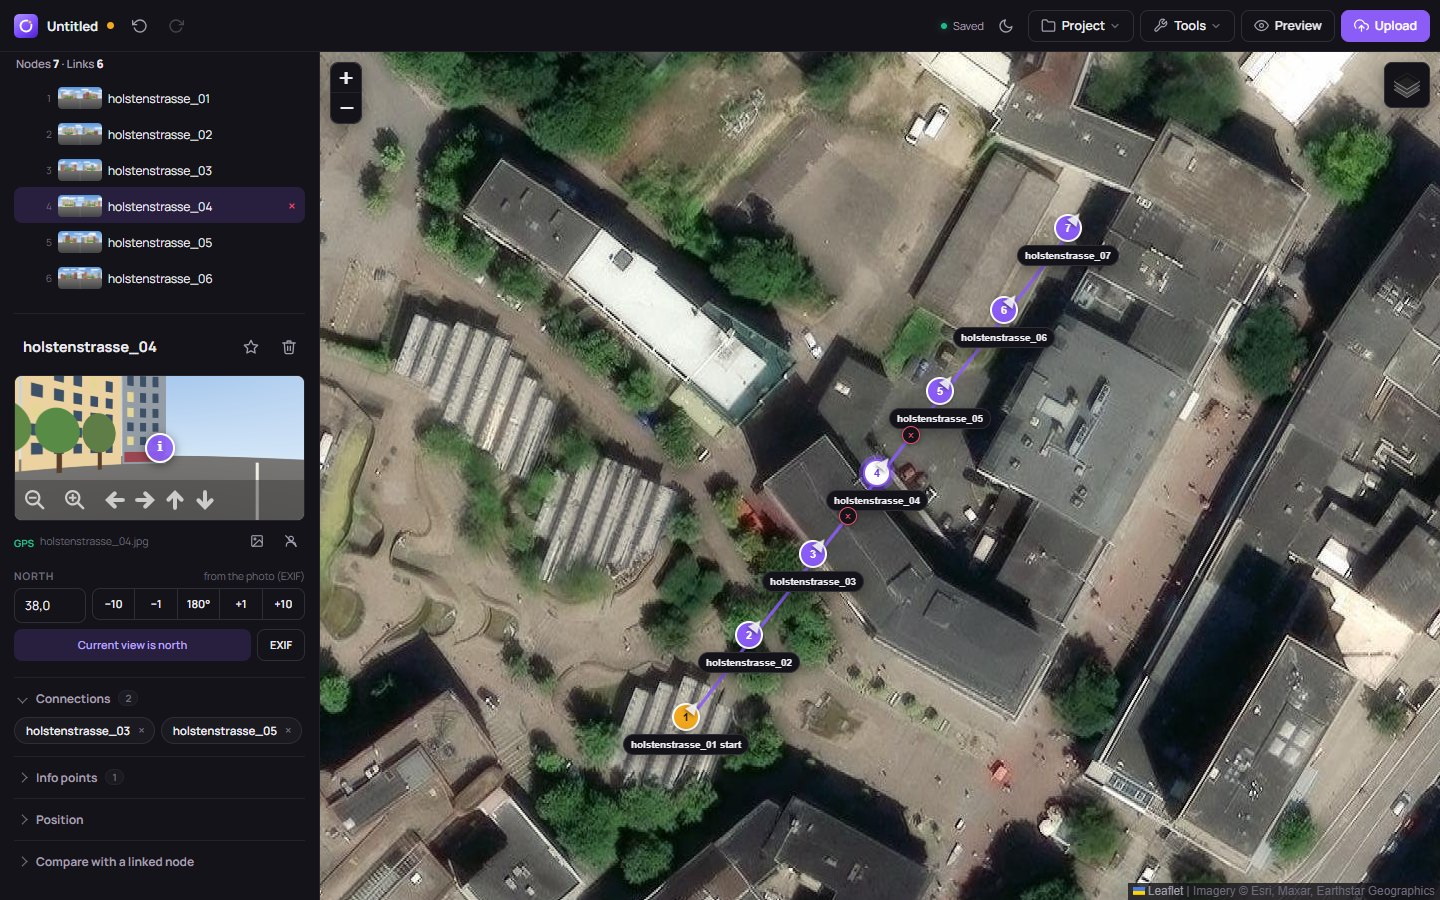
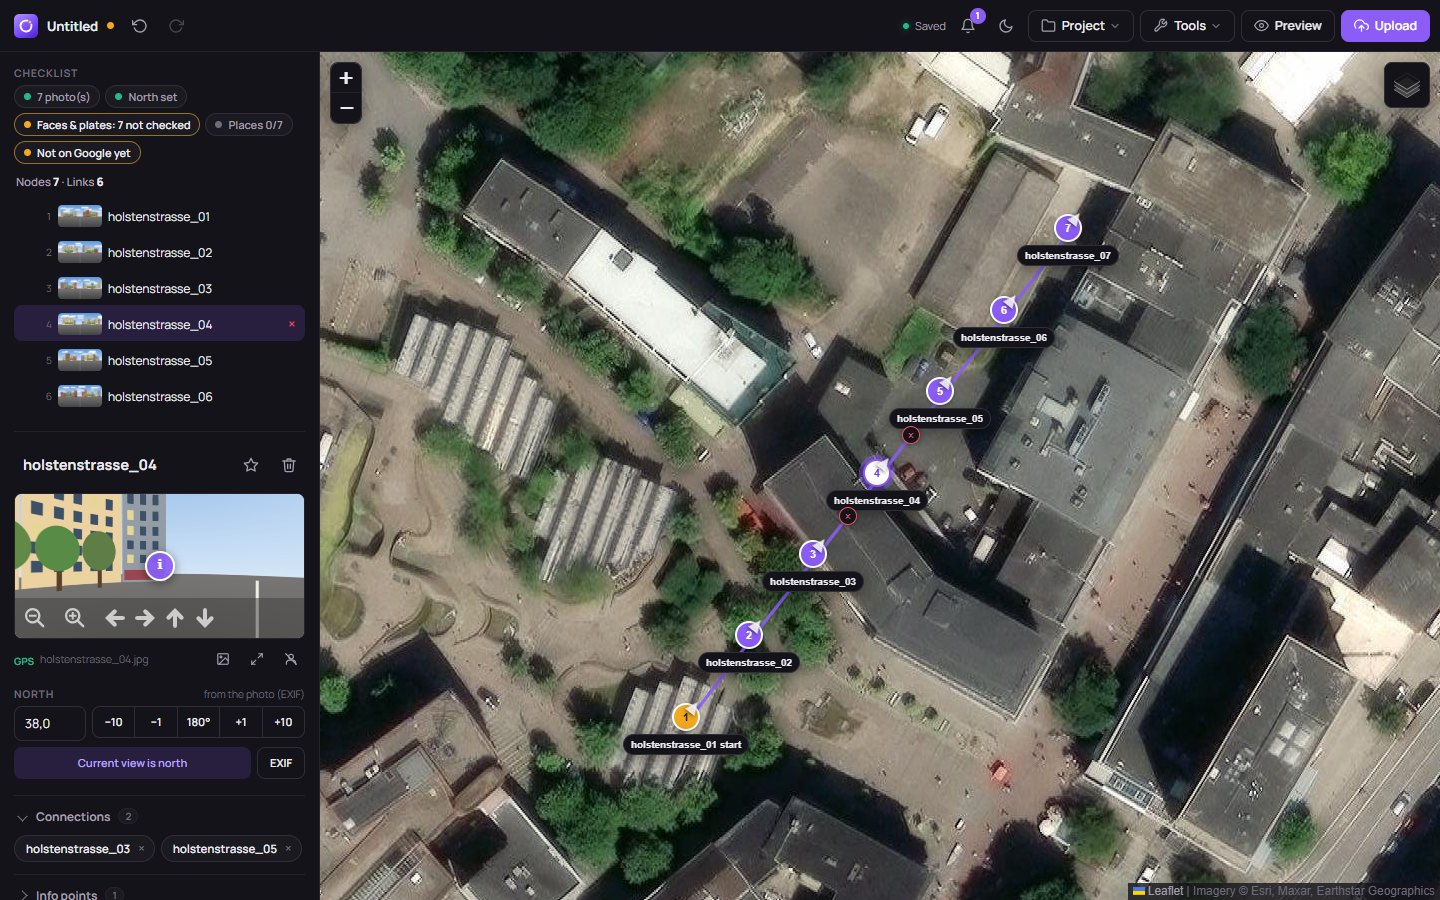
Document the new features and update the screenshots

diff --git a/README.md b/README.md
@@ -43,15 +43,17 @@ them to Google.
 | | |
 |---|---|
 | 📥 **A whole walk in one go** | Drop a folder (or many photos) and the **import** places them by GPS, links them in the order you walked, turns them to north from the walking direction and checks the tour. One Ctrl+Z takes it all back. |
-| 🗺 **Plan on a map** | Edit on a street or satellite map: link photos by right-clicking, or let **auto-connect** chain them in the order you walked. |
-| 🧭 **Get north right** | Align a photo by looking north and clicking once, fine-tune by ±1°/±10°/180°, or set every photo from the **walking direction**. The preview shows the result exactly as visitors will see it. |
-| 📍 **No GPS? No problem** | Place photos from a **GPX track** recorded on your phone, or type exact coordinates. |
-| 🙈 **Privacy built in** | **Blur faces and licence plates** before uploading, with automatic face detection as a starting point. The Street View Publish API does not blur anything itself. |
-| ✅ **Catch problems early** | A **tour check** finds what Google would reject (not 2:1, not a JPEG, over 75 MB) and what looks wrong (no north, unconnected photos, long links, duplicates). |
-| ☁ **One-click publishing** | Upload with a live progress view, readable errors and automatic linking once Google has processed the photos. Later changes are **pushed without re-uploading**; the Google status shows on every marker. |
+| 🗺 **Plan on a map** | Edit on a street or satellite map: link photos by right-clicking, or let **auto-connect** chain them in the order you walked. **Several tours** on one map – add projects next to each other, export each tour on its own. |
+| 📍 **Places on Google Maps** | Optional, recommended: every photo tied to its building, house number or street, by a rule you can see and change before anything is uploaded. |
+| 🧭 **Get north right** | Align one photo by looking north and clicking once, and let the others follow – from the **walking direction**, or by **comparing the photos with each other**, whichever way you held the camera. Fine-tune by ±1°/±10°/180°; the preview shows the result exactly as visitors will see it. |
+| 📍 **No GPS? No problem** | Place photos from a **GPX track** recorded on your phone, or type exact coordinates. GPS a few metres off? **Move or turn the whole tour**, or **snap it to the paths** on OpenStreetMap. |
+| 🙈 **Privacy built in** | **Blur faces and licence plates** before uploading: the editor checks **all photos at once** for faces and vehicles – on your computer – and you go through the findings one by one. The Street View Publish API does not blur anything itself. |
+| ✅ **Catch problems early** | A **checklist** shows what is left for each tour, a **tour check** finds what Google would reject (not 2:1, not a JPEG, over 75 MB) and what looks wrong, and a **review before publishing** says exactly what goes public. |
+| ☁ **One-click publishing** | Upload with a live progress view, readable errors and automatic linking once Google has processed the photos. Later changes are **pushed without re-uploading**; the Google status and **view counts** show on every point. **Floors** for tours inside buildings. |
+| 🎥 **360° videos** | Upload a 360° video with its GPS track and Google makes the Street View photos from it. The editor checks the video and the track first and shows how far Google got. |
 | 🌐 **Share it anywhere** | Export a **ready-to-host website** of the tour (with info points and a minimap), or `tour-viewer.html` / `tour-config.json` / `tour.csv`. |
 | 💾 **Never lose work** | Autosave, a restore prompt after a crash, and `.vrtour` project files with all photos inside. **Ctrl+S** saves back into the open project; **recent projects** are one click away. |
-| 🖥 **A real desktop app** | For **Windows, macOS and Linux** (also ARM). Its own window, no browser needed, **works offline** (only the map and Google need the internet); a calm **light and dark design**, a short **introduction on first start**, the system's own open and save dialogs, `.vrtour` file association, installers, and in-app updates on Windows. English and German user interface. |
+| 🖥 **A real desktop app** | For **Windows, macOS and Linux** (also ARM). Its own window, no browser needed, **works offline** (only the map and Google need the internet); a calm **light and dark design**, a short **introduction on first start** and a **sample tour** to try things, a **panorama focus mode**, the system's own open and save dialogs, `.vrtour` file association, installers, in-app updates on Windows and update hints on macOS and Linux (or updates through **apt**). English and German user interface. |
 
 <table>
   <tr>
@@ -78,9 +80,19 @@ Get the file for your system from the
 | macOS 11+ on Intel | `StreetviewTourEditor-<version>-macos-x64.dmg` | |
 | **Linux**: Debian 12+, Ubuntu 24.04+ and derivatives (amd64 and arm64) | `streetview-tour-editor_<version>_all.deb` | `sudo apt install ./streetview-tour-editor_*_all.deb` |
 
+On Linux you can also add the editor's apt repository, so updates come with the
+system's own:
+
+```bash
+curl -fsSL https://f0up.github.io/streetview-tour-uploader/apt/key.gpg | sudo tee /usr/share/keyrings/streetview-tour-editor.gpg > /dev/null
+echo "deb [signed-by=/usr/share/keyrings/streetview-tour-editor.gpg] https://f0up.github.io/streetview-tour-uploader/apt stable main" | sudo tee /etc/apt/sources.list.d/streetview-tour-editor.list
+sudo apt update && sudo apt install streetview-tour-editor
+```
+
 Then start **Streetview Tour Editor** (Start menu, Launchpad or your app menu)
 and drop your 360° photos, or the whole folder, onto the map. The editor opens in its own window;
-closing the window quits the app.
+closing the window quits the app. Not sure yet? **Try the sample tour** on the
+start screen: a small tour with drawn photos, to try everything (it is never uploaded).
 
 The window is the system's own web engine: Edge WebView2 on Windows (part of
 Windows 10 and 11), WKWebView on macOS, WebKitGTK on Linux (installed with the
@@ -154,10 +166,16 @@ flowchart LR
   B --> C[🧭 Align north]
   C --> D[🙈 Blur]
   D --> E[✅ Check & preview]
-  E --> F[☁ Upload]
+  E --> F[☁ Review & upload]
   F --> G[⏳ Google processes]
   G --> H[🔗 Links set automatically]
 ```
+
+The **checklist** at the top of the side panel follows you through these steps:
+for the tour of the selected point it shows what is done (green) and what is left
+(yellow) – photos, north, faces & plates, places, Google. Click a chip to go where
+it gets done. Messages that pop up at the bottom are kept under the **bell** in the
+top bar, in case one vanished too fast.
 
 ### 1. Bring in your photos
 
@@ -178,6 +196,14 @@ flowchart LR
   can also set the camera clock's time zone if the photos don't land on the track).
 - **Double-click** the map for an empty point; **Replace Photo** in the side
   panel swaps a node's photo.
+- **GPS a few metres off?** **Tools → Move or turn a tour…** shifts the whole tour
+  in 1 or 5 m steps or turns it about its centre, watching the satellite map; it
+  all counts as one undo step. **Snap to paths** moves each point onto the nearest
+  street or footpath from OpenStreetMap (the tour's area is sent to the Overpass
+  API for this).
+- **Inside a building with several floors?** Give the points their **floor** in
+  the side panel (*Position*). Google shows the floor switcher for them, and the
+  map's floor buttons show one floor at a time.
 
 ### 2. Link the photos
 
@@ -199,6 +225,10 @@ way and you look backwards after a jump.
   facing backwards.
 - **Tools → Headings from walking direction…** sets all photos at once: align one
   by hand, pick it as reference, and the others follow your route.
+- **Tools → North from the photos…** works however you held the camera: it
+  compares each photo's horizon with its linked neighbours and turns them to match
+  the photo you aligned. Every result says how sure it is; only clear ones are
+  ticked, and nothing changes until you apply them.
 
 > [!TIP]
 > In the **Preview**, walk through the tour. If a photo looks turned after a jump,
@@ -206,10 +236,15 @@ way and you look backwards after a jump.
 
 ### 4. Protect privacy
 
-Select a node and click **Blur faces & plates…**:
+**Tools → Check all photos for faces & plates…** looks through every photo – on
+your computer, nothing is sent anywhere – and lists those with faces or vehicles.
+**Review** opens each in the blur tool with the suggestions marked; after applying
+you are back at the list. Or select a node and click **Blur faces & plates…**:
 
-- **Detect faces** suggests boxes (dashed); click a box to remove it.
-- Drag boxes over anything else, such as licence plates or house numbers.
+- **Detect faces** and **Detect plates** suggest boxes (dashed); click a box to
+  remove it. For plates the editor finds vehicles and suggests the lower middle of
+  each, where plates usually are – remove the boxes without one.
+- Drag boxes over anything else, such as house numbers.
 - **Apply to photo** pixelates them for good. The original EXIF block, which can
   hold an unblurred thumbnail, is dropped; the 360° metadata is kept.
 
@@ -222,12 +257,18 @@ unblurred version on Google.
   a **Show** button.
 - **Preview** shows the tour exactly as it will look, including info points and the
   minimap.
+- Press <kbd>F</kbd> (or the expand button under the panorama) to see the selected
+  photo over the **whole window**, and walk on to the linked points from there.
+  <kbd>Esc</kbd> goes back.
 - **Info points:** in the side panel, **Info points → Add at current view** puts a
   clickable "i" with a title, text and link into the panorama.
 
 ### 6. Upload to Google Street View
 
-Click **Upload**, then **Start Upload**:
+Click **Upload**, then **Start Upload**. First comes the **review before
+publishing**: how many photos go up or are updated, and per tour whether north,
+links, places and the privacy check are complete – each open point with a way to
+fix it first. **Publish** starts the upload:
 
 1. **Upload:** each photo is sent with its position and heading, with live progress, speed and time left.
 2. **Google processing:** new photos take a few minutes before Google accepts links. The dialog waits.
@@ -244,14 +285,69 @@ Good to know:
   shows whether each photo is *published*, *processing* or *rejected*, finds photos
   the editor lost track of and duplicates at the same spot. **Repair** sends
   whatever is missing, again without re-uploading.
-- A **Place ID** (optional) links the tour to a place's page on Google Maps. Find it
-  with Google's free [Place ID Finder](https://developers.google.com/maps/documentation/javascript/examples/places-placeid-finder);
-  pasting a Maps URL that contains one works too. If Google rejects the ID, the
-  photos are uploaded without it and you are told.
+- **Tools → Views on Google…** shows how often each photo has been viewed on
+  Google Maps, per tour.
+- **Places on Google Maps** (optional, recommended): see below. Without it you can
+  still type a **Place ID** by hand; Google's free
+  [Place ID Finder](https://developers.google.com/maps/documentation/javascript/examples/places-placeid-finder)
+  finds it, and pasting a Maps URL that contains one works too. If Google rejects
+  a place, the photos are uploaded without it and you are told.
+
+#### Places on Google Maps (optional, recommended)
+
+With an API key of your own (**Tools → Places on Google Maps…**, which walks you
+through it), every photo is tied to its place on Google Maps: the **building or
+business** it was taken at, its **house number** or its **street**. Nothing
+happens unseen: when you open the upload, each tour shows the rule that applied
+and why, and **Show the place of each photo** lists every photo with its place,
+kind and distance. Every choice can be changed per tour (automatic, each photo its
+house number or street, one place for the whole tour, no place) or per photo,
+also for photos already on Google (sent without uploading again). The side panel
+shows each point's place, the upload list each photo's.
+
+The automatic rule, in order:
+
+1. A tour that lies at one place (all points within 60 m of its centre) with a
+   building or business within 40 m of that centre: all photos get that place.
+2. Otherwise each photo gets its house number if that is within 25 m, else its street.
+3. Nothing found: the photo goes up with its position only.
+
+It decides for photos not on Google yet; photos already there keep their place
+unless you change it.
+
+Costs: the key needs the **Places API (New)** and the **Geocoding API**, and Google
+requires a billing account for them. Each has a free monthly usage (2026: 10,000
+address lookups and 5,000 place searches; above that about $5 and $32 per 1,000 –
+see [Google's prices](https://developers.google.com/maps/billing-and-pricing/pricing)).
+The editor looks up each photo once (again only after you move it) and searches
+for buildings only for tours that lie at one place; the upload dialog shows how
+many lookups it sent. Set a **daily limit** on each API's quota page (the guide
+suggests 300 and 150 a day) and Google stops at the free usage instead of
+charging. The key stays on your computer; only the positions of the photos you
+upload are sent to these APIs.
 
 > [!WARNING]
 > Uploaded photos are **public**, under your Google account. It can take from a
 > few minutes to several hours until they show on Google Maps.
+
+#### 360° videos
+
+**Tools → Upload a 360° video…** sends a 360° video to Google, which picks the
+frames, places them along the GPS track and links them – the photos then appear
+under your account like uploaded ones. The video does not become part of your tour.
+Before anything is sent, the editor reads the video and shows what Google needs:
+
+- a 360° video, 2:1 (equirectangular, as the camera's app exports it), with its 360°
+  metadata, recorded while walking or driving outdoors;
+- GPS for the whole video: in the video's motion track (CAMM, e.g. Insta360 with a
+  GPS remote) or as a **GPX file** recorded at the same time. The editor shows how
+  much of the video the track covers, fills gaps of up to 30 s along the track
+  (Google refuses gaps over 5 s) and notices when the camera wrote its local time
+  as UTC – **Shift by … h** fixes that.
+
+The video goes from your computer through the app straight to Google, also when it
+is several GB. Processing takes hours to days; **Your videos on Google** shows how
+far each got, or why Google refused it.
 
 ### 7. Save, share and export
 
@@ -262,6 +358,16 @@ Good to know:
 | **Project → Viewer files** | `tour-viewer.html` + `tour-config.json`, to place next to your photos. Also in the preview. |
 | **Project → CSV** | `tour.csv` for the [command-line uploader](#command-line-tools). |
 | **Project → Export folder** | Save every export straight into one folder instead of asking each time. |
+
+**Several tours on one map:** **Project → Add project…** (<kbd>Ctrl</kbd>+<kbd>Shift</kbd>+<kbd>O</kbd>,
+several files at once; or drop `.vrtour` files on a map that has points) puts
+projects next to each other instead of replacing what is there. A tour is a group
+of linked points, or the points of one project or imported folder; with more
+than one, each gets its own colour, its own start point and a row in the side
+panel (click to show it, double-click to rename it). Every export then asks
+which tour – or everything – it is for, and **Project → Tour as project** saves a
+single tour as a `.vrtour` of its own. After adding projects, <kbd>Ctrl</kbd>+<kbd>S</kbd>
+asks for a new file, so the files you opened stay as they were.
 
 **Recent projects** are listed in the **Project** menu and on the start screen
 (in the browser only in Chrome and Edge, which ask once for access again).
@@ -278,11 +384,13 @@ the last session.
 | Introduction again | **Tools → Introduction** |
 | Save / Save as / Open project | <kbd>Ctrl</kbd>+<kbd>S</kbd> / <kbd>Ctrl</kbd>+<kbd>Shift</kbd>+<kbd>S</kbd> / <kbd>Ctrl</kbd>+<kbd>O</kbd> |
 | Import photos | <kbd>Ctrl</kbd>+<kbd>I</kbd> |
+| Add project to the map | <kbd>Ctrl</kbd>+<kbd>Shift</kbd>+<kbd>O</kbd> |
 | Undo / Redo | <kbd>Ctrl</kbd>+<kbd>Z</kbd> / <kbd>Ctrl</kbd>+<kbd>Y</kbd> |
 | Add point | Double-click the map |
 | Connect two nodes | Right-click, right-click |
 | Select several | <kbd>Ctrl</kbd>+click, or <kbd>Shift</kbd>+drag on the map |
 | Delete selection | <kbd>Delete</kbd> |
+| Panorama over the whole window | <kbd>F</kbd> |
 | Cancel / deselect | <kbd>Esc</kbd> |
 | All shortcuts | <kbd>?</kbd> |
 
@@ -390,16 +498,35 @@ The window needs WebKitGTK and a desktop session. The package pulls in
 </details>
 
 <details>
+<summary><b>Something doesn't work - how do I report it?</b></summary>
+
+**Tools → Create a bug report…** saves a zip with the versions of the app and
+your system, the app's log and the editor's last messages and errors. It holds no
+photos, projects, sign-in or keys; anything in the log that looks like a key or
+token is blanked. Have a look inside, then attach it to a
+[new issue](https://github.com/F0uP/streetview-tour-uploader/issues/new).
+</details>
+
+<details>
+<summary><b>How do I update on macOS or Linux?</b></summary>
+
+The editor tells you when there is a new version. **Download** shows what to do on
+your system: the disk image for your Mac, the `.deb` with the command to install
+it – or, with the [apt repository](#quick-start), nothing beyond your system's
+updates (`sudo apt update && sudo apt upgrade`).
+</details>
+
+<details>
 <summary><b>Where are my files?</b></summary>
 
 | What | Windows | macOS | Linux |
 |---|---|---|---|
-| Google sign-in, settings, recent projects, `editor.log` | `%APPDATA%\StreetviewTourEditor\` | `~/Library/Application Support/StreetviewTourEditor/` | `~/.config/streetview-tour-editor/` |
+| Google sign-in, settings, recent projects, Places API key, `editor.log` | `%APPDATA%\StreetviewTourEditor\` | `~/Library/Application Support/StreetviewTourEditor/` | `~/.config/streetview-tour-editor/` |
 | Autosaved session | `%LOCALAPPDATA%\StreetviewTourEditor\WebView2\` | WebKit's storage for the app | `~/.local/share/streetview-tour-editor/` |
 | Projects | wherever you save your `.vrtour` files | | |
 
 Running from source keeps everything in `uploader/` (`client_secrets.json`,
-`token.json`, `.editor_key`, `recent.json`, `webview/`). In browser mode the autosave lives in
+`token.json`, `.editor_key`, `recent.json`, `places_api_key.txt`, `filerefs.json`, `webview/`). In browser mode the autosave lives in
 that browser's storage for `127.0.0.1:8420`.
 </details>
 
@@ -441,7 +568,13 @@ See [`example/`](example) for the CSV format and `tour-meta.json` (a Place ID fo
   browser mode the app quits about 15 seconds after the last editor tab is
   closed, and at the latest 5 minutes after no editor page has been heard from.
 - Photos and projects stay on your computer until you upload them; uploads go
-  directly to Google's Street View Publish API.
+  directly to Google's Street View Publish API. Face and vehicle detection runs on
+  your computer. **Snap to paths** sends the tour's area (not the photos) to the
+  OpenStreetMap Overpass API.
+- In the app window, the autosave keeps photos you opened from a file by
+  reference (path, size and time in `filerefs.json`) instead of a second copy; a
+  changed or moved file is reported, never silently replaced.
+- A bug report is only made when you ask for it, and only saved to your computer.
 - In-app updates download only from this repository's GitHub releases and are
   checked against the release's `SHA256SUMS.txt` before installing.
 - All code ships with the app: the libraries (map, panorama viewer, face
@@ -455,22 +588,47 @@ See [`example/`](example) for the CSV format and `tour-meta.json` (a Place ID fo
 <summary><b>Project layout</b></summary>
 
 ```text
-editor/editor.html        the whole editor (single page, no build step)
+editor/editor.html        the editor's page (markup); editor.css its styles
+editor/js/                the editor as native ES modules, no build step: editor.js (main),
+                          i18n-de.js (German), align.js (north from the photos), detect.js
+                          (faces, vehicles), video.js (360° videos), viewer.js, gpx.js, zip.js, util.js
+editor/sample/            the sample tour (made by packaging/make_sample.py)
 editor/vendor/            third-party libraries, fetched and checked by packaging/vendor.py
-run_editor.py             local server, Google API endpoints, desktop-app entry point
+run_editor.py             local server, its API endpoints, desktop-app entry point
+google_api.py             Street View Publish API: photos and 360° videos
+places.py                 Places API (New) and Geocoding API lookups
+bug_report.py             "Create a bug report", with secrets blanked
 app_window.py             the app window (WebView2 / WKWebView / WebKitGTK via pywebview)
 app_tray.py               tray icon (browser mode)
-app_update.py             in-app updates from GitHub Releases (Windows)
+app_update.py             in-app updates from GitHub Releases (Windows), update hints elsewhere
 uploader/                 command-line tools
 build_exe.py              builds the Windows app + installer, or the macOS app + .dmg
 installer/                Inno Setup script (Windows installer)
 packaging/icons/          the logo: icon.svg and make_icons.py, which renders every icon format
-packaging/linux/          build_deb.py: the Linux package
+packaging/linux/          build_deb.py: the Linux package; apt_repo.py: the apt repository
+packaging/signpath/       how to set up code signing with SignPath
 packaging/macos/          entitlements for signing the macOS app
 packaging/pyinstaller-hooks/  bundle only what the app needs
 packaging/winget/         winget manifest generator
-.github/workflows/        CI: build, smoke-test and release on every v* tag
+.github/workflows/        CI: tests on every push; build, smoke-test and release on every v* tag
+tests/                    pytest + Playwright tests of the editor and the app
 ```
+</details>
+
+<details>
+<summary><b>Tests</b></summary>
+
+The tests start the app on a free port with a profile of their own and drive the
+editor in headless Chromium; Google, OpenStreetMap and the Places APIs are faked.
+
+```bash
+pip install -r requirements-test.txt
+python -m playwright install chromium     # or: set SVT_BROWSER_CHANNEL=chrome
+pytest tests
+```
+
+CI runs them on every push and before every release build (`.github/workflows/tests.yml`).
+The tests also check that every text of the editor has its German translation.
 </details>
 
 <details>
@@ -501,6 +659,9 @@ The editor's libraries are pinned in `packaging/vendor.py`. After changing a
 version there, `python packaging/vendor.py --update` downloads them again and
 rewrites the lock file; CI runs `--check` before every build.
 
+The sample tour is made by `python packaging/make_sample.py` (drawn panoramas, no
+real place or person in them).
+
 Start the app with `--debug` for the developer tools in its window, with
 `--browser` to use the browser instead, or with `--smoke-test` to check that it
 starts and works (exit code 0), as CI does with every build.
@@ -526,12 +687,20 @@ git tag v2.3.0 && git push origin v2.3.0
   `AZURE_TENANT_ID`, `AZURE_CLIENT_ID`, `AZURE_CLIENT_SECRET`,
   `TRUSTED_SIGNING_ENDPOINT`, `TRUSTED_SIGNING_ACCOUNT`, `TRUSTED_SIGNING_PROFILE`.
   Locally, set `SIGN_CMD` to any signing command with `{file}` as placeholder.
+  Or, free for open source, [SignPath](https://signpath.org): `SIGNPATH_API_TOKEN`
+  and the variables `SIGNPATH_ORGANIZATION_ID`, `SIGNPATH_PROJECT_SLUG`; see
+  [packaging/signpath/README.md](packaging/signpath/README.md).
 - **macOS signing and notarization** (removes the Gatekeeper warning):
   `MACOS_CERTIFICATE` (base64 of a *Developer ID Application* `.p12`),
   `MACOS_CERTIFICATE_PASSWORD`, and for notarization `APPLE_ID`, `APPLE_TEAM_ID`,
   `APPLE_APP_PASSWORD`. Locally, set `MACOS_SIGN_IDENTITY` (and the three Apple values).
 - **winget**: `WINGET_TOKEN`; the first submission is manual, see
   [packaging/winget/README.md](packaging/winget/README.md).
+- **apt repository** on GitHub Pages: `APT_GPG_PRIVATE_KEY`, an armored private key
+  without passphrase made only for this (`gpg --quick-gen-key "Streetview Tour Editor
+  apt" ed25519 sign never`, then `gpg --armor --export-secret-keys …`). Each release
+  adds its `.deb` to the `gh-pages` branch; switch on GitHub Pages for that branch
+  once (*Settings → Pages*).
 </details>
 
 Contributions are welcome: open an [issue](https://github.com/F0uP/streetview-tour-uploader/issues)
